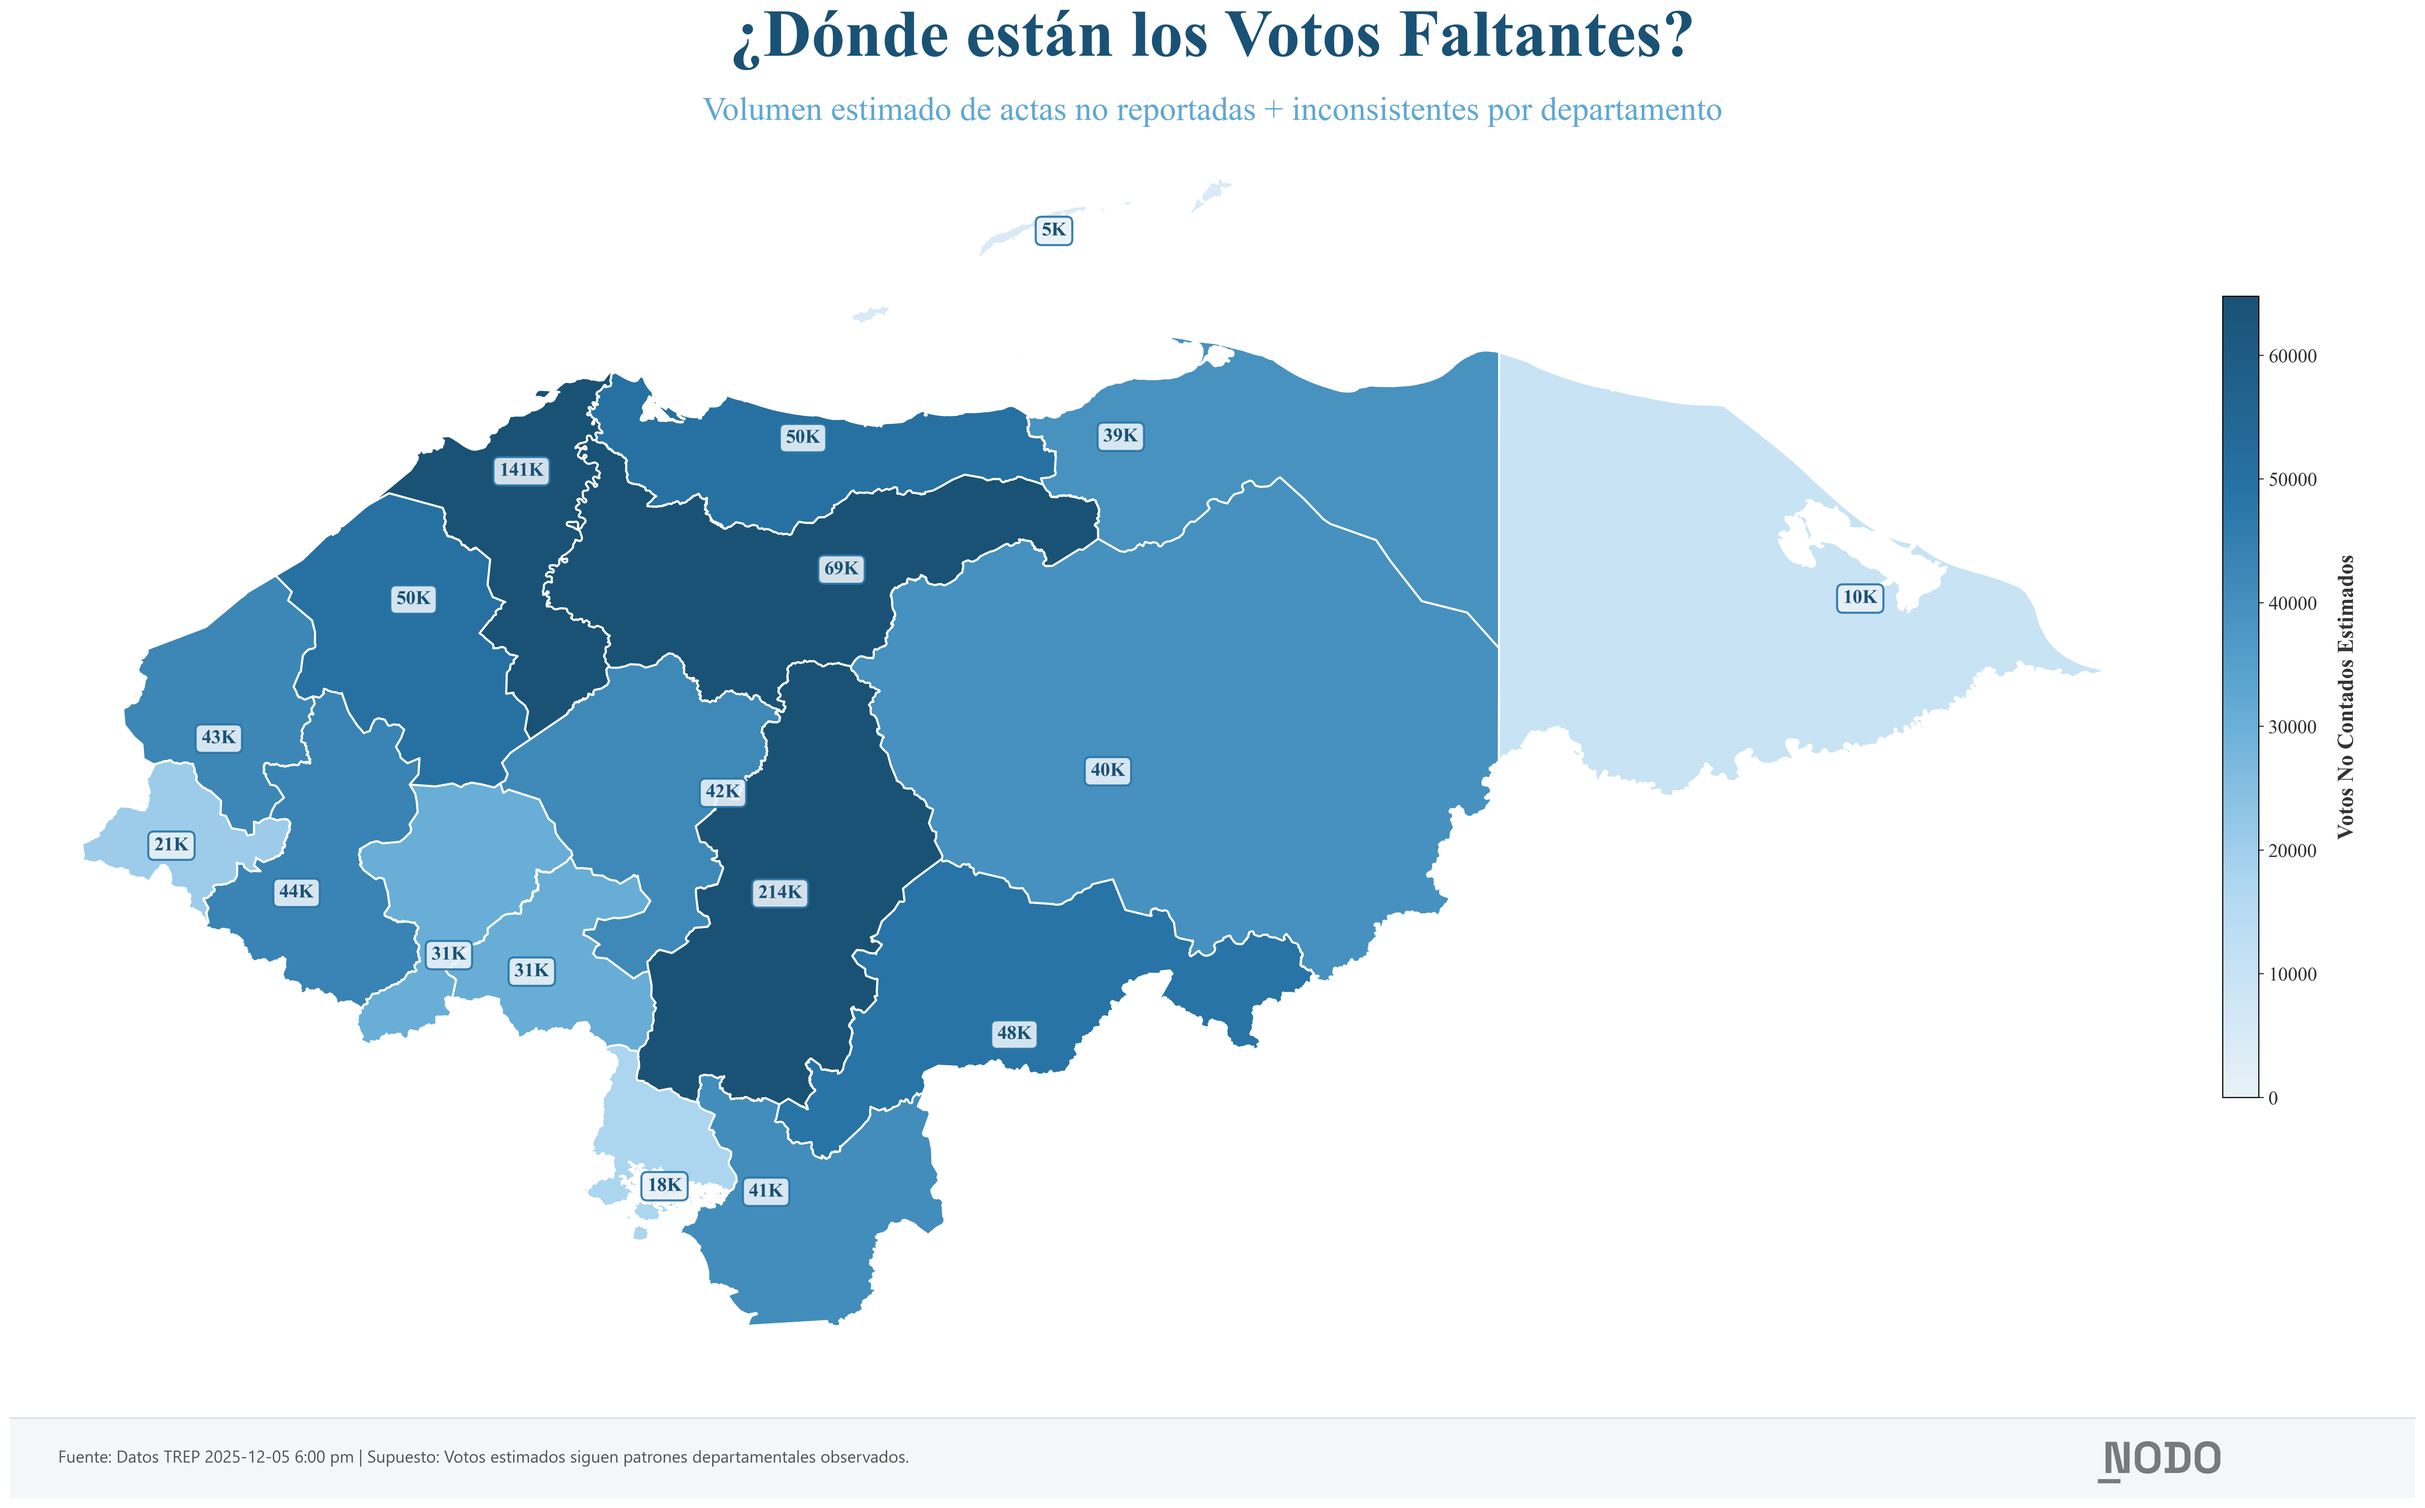
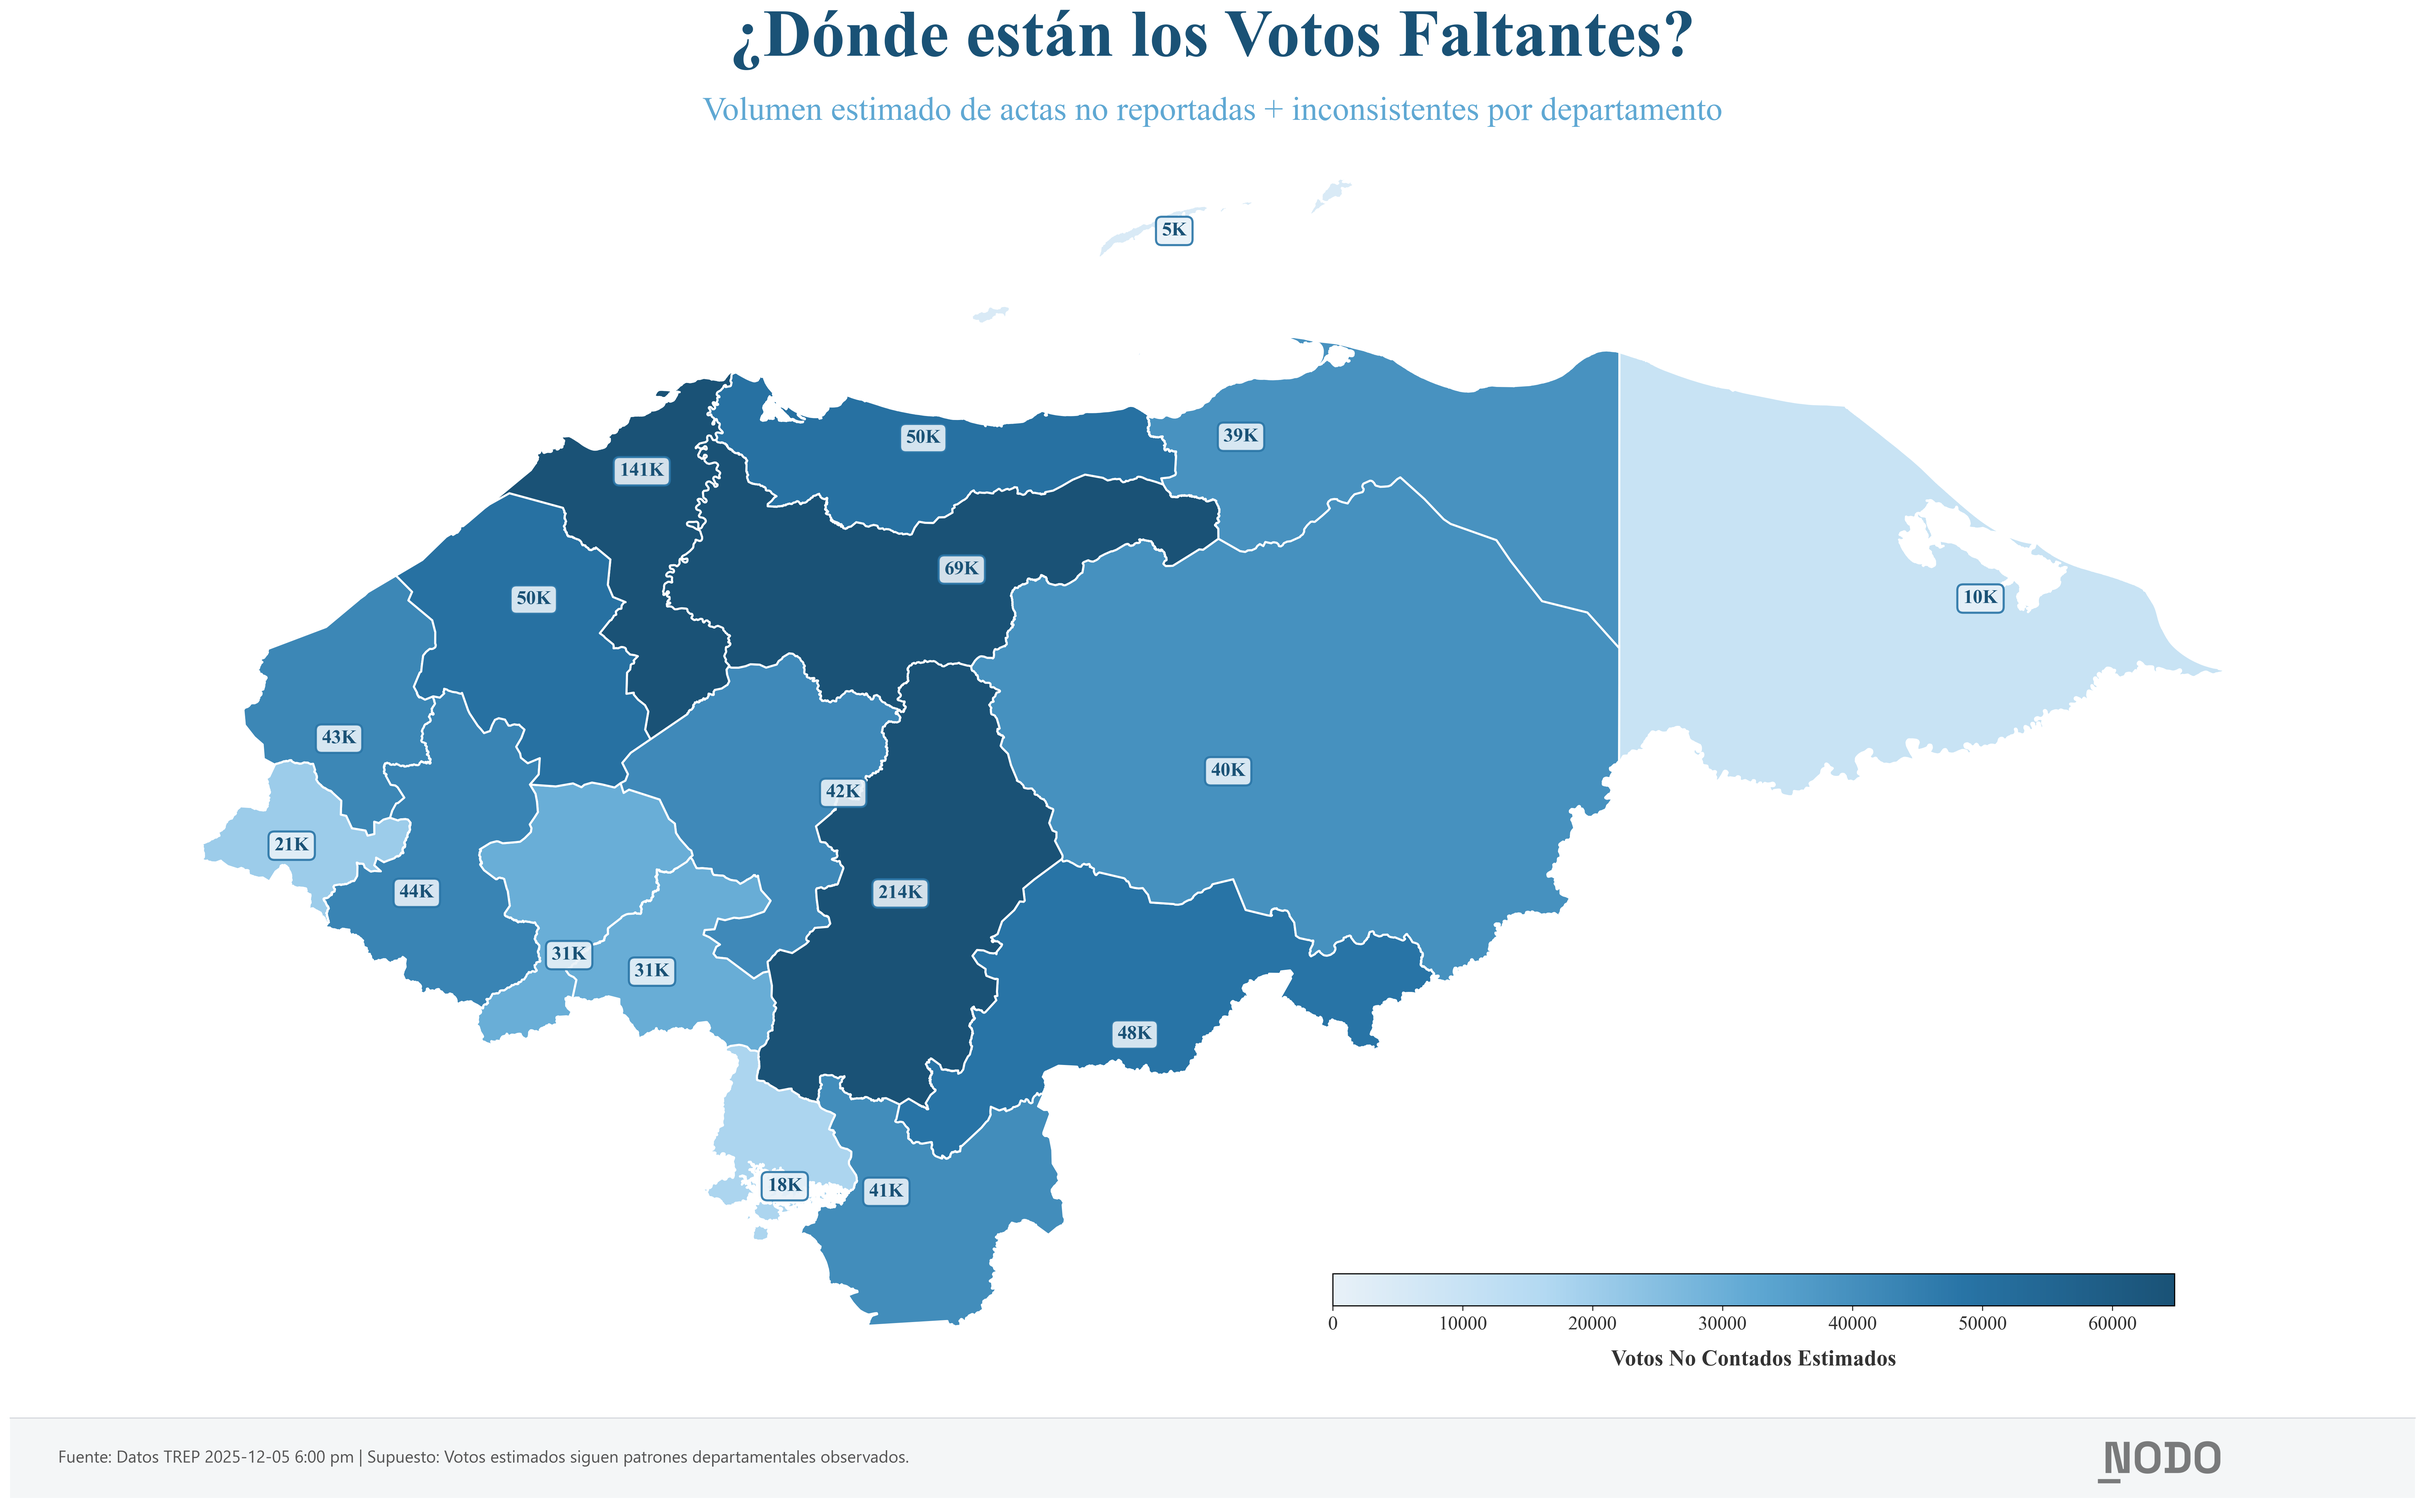
Cambios Menores

diff --git a/scripts/generar_visualizaciones.py b/scripts/generar_visualizaciones.py
@@ -167,16 +167,16 @@ def create_dazzle_map(dept_stats_df):
     fig.text(0.5, 0.86, "Volumen estimado de actas no reportadas + inconsistentes por departamento",
              ha="center", fontsize=24, color="#5fa8d3")
 
-    # Leyenda (Lado derecho)
-    cbar_ax = fig.add_axes([0.92, 0.25, 0.015, 0.5])
-    cbar = fig.colorbar(p, cax=cbar_ax, orientation="vertical")
+    # Leyenda (Horizontal, abajo a la derecha en espacio blanco)
+    cbar_ax = fig.add_axes([0.55, 0.12, 0.35, 0.02])  # [izq, abajo, ancho, alto]
+    cbar = fig.colorbar(p, cax=cbar_ax, orientation="horizontal")
     cbar.ax.tick_params(labelsize=14)
-    cbar.set_label("Votos No Contados Estimados", fontsize=16, fontweight="bold", labelpad=15)
+    cbar.set_label("Votos No Contados Estimados", fontsize=16, fontweight="bold", labelpad=12)
 
     add_branding(fig, logo, f"Fuente: Datos TREP {TIMESTAMP} | {ASSUMPTION_TEXT}")
 
     out_path = VIZ_DIR / "mapa_votos_faltantes.png"
-    plt.tight_layout(rect=[0, 0.06, 0.90, 0.85])
+    plt.tight_layout(rect=[0, 0.06, 1, 0.85])
     plt.savefig(out_path, dpi=300, bbox_inches="tight", facecolor="white")
     plt.close(fig)
     print(f"Guardado: {out_path}")
@@ -221,23 +221,24 @@ def create_dazzle_dept_bars(dept_stats_df):
     for i, (rep, rem) in enumerate(zip(reported, remaining)):
         total = rep + rem
 
-        # Etiqueta Reportado
+        # Etiqueta Reportado (con contorno para visibilidad)
         rep_text = f"{rep/1000:.0f}K"
         if rep > (total * 0.15):
-            ax.text(rep/2, i, rep_text, ha="center", va="center",
-                    color="white", fontsize=20, fontweight="bold")
+            text = ax.text(rep/2, i, rep_text, ha="center", va="center",
+                    color="white", fontsize=22, fontweight="bold")
+            text.set_path_effects([path_effects.withStroke(linewidth=3, foreground='#1a5276')])
 
-        # Etiqueta Restante
+        # Etiqueta Restante (con mejor contraste)
         rem_text = f"Est.\n{rem/1000:.0f}K"
         label_color = COLOR_REPORTED
 
         if rem > (total * 0.15):
             ax.text(rep + rem/2, i, rem_text, ha="center", va="center",
-                    color=label_color, fontsize=20, fontweight="bold",
-                    bbox=dict(facecolor="white", alpha=0.85, edgecolor="none", pad=2))
+                    color=label_color, fontsize=22, fontweight="bold",
+                    bbox=dict(facecolor="white", alpha=0.95, edgecolor="none", pad=4))
         else:
             ax.text(rep + rem + (total*0.01), i, rem_text.replace("\n", " "), ha="left", va="center",
-                    color=label_color, fontsize=22, fontweight="bold")
+                    color=label_color, fontsize=24, fontweight="bold")
 
     # Título (Centrado)
     fig.text(0.5, 0.94, "Estado del Voto Departamental: Reportado vs. Estimado",
@@ -308,26 +309,28 @@ def create_dazzle_projection(results_df, dept_stats_df):
 
         # --- ETIQUETAS ---
         ax.text(0, i + (height/2) + 0.05, row["short_name"].upper(),
-                fontsize=24, fontweight="bold", color=row["color"], va="bottom")
+                fontsize=26, fontweight="bold", color=row["color"], va="bottom")
 
-        ax.text(row["reported"] / 2, i, format_number(row["reported"]),
-                ha="center", va="center", color="white", fontsize=24, fontweight="bold")
+        # Etiqueta de reportado con contorno para mejor visibilidad
+        text_rep = ax.text(row["reported"] / 2, i, format_number(row["reported"]),
+                ha="center", va="center", color="white", fontsize=26, fontweight="bold")
+        text_rep.set_path_effects([path_effects.withStroke(linewidth=4, foreground='black', alpha=0.5)])
 
         center_est = row["reported"] + (est_val / 2)
         est_label = f"Est. {est_val/1000:.0f}K\n(±0.4%)"
 
         if est_val < 100000:
             ax.text(row["projected"] + 10000, i, est_label.replace("\n", " "),
-                    ha="left", va="center", color=row["color"], fontsize=18, fontweight="bold")
+                    ha="left", va="center", color=row["color"], fontsize=20, fontweight="bold")
         else:
             ax.text(center_est, i, est_label,
-                    ha="center", va="center", color=row["color"], fontsize=16, fontweight="bold",
-                    bbox=dict(facecolor="white", alpha=0.8, edgecolor="none", pad=2))
+                    ha="center", va="center", color=row["color"], fontsize=18, fontweight="bold",
+                    bbox=dict(facecolor="white", alpha=0.95, edgecolor="none", pad=5))
 
         total_share = (row["projected"] / df["projected"].sum()) * 100
         if est_val >= 100000:
             ax.text(row["projected"] + 25000, i, f"{total_share:.1f}%",
-                    ha="left", va="center", color=row["color"], fontsize=24, fontweight="bold")
+                    ha="left", va="center", color=row["color"], fontsize=26, fontweight="bold")
 
     ax.set_yticks([])
     ax.spines['left'].set_visible(False)
